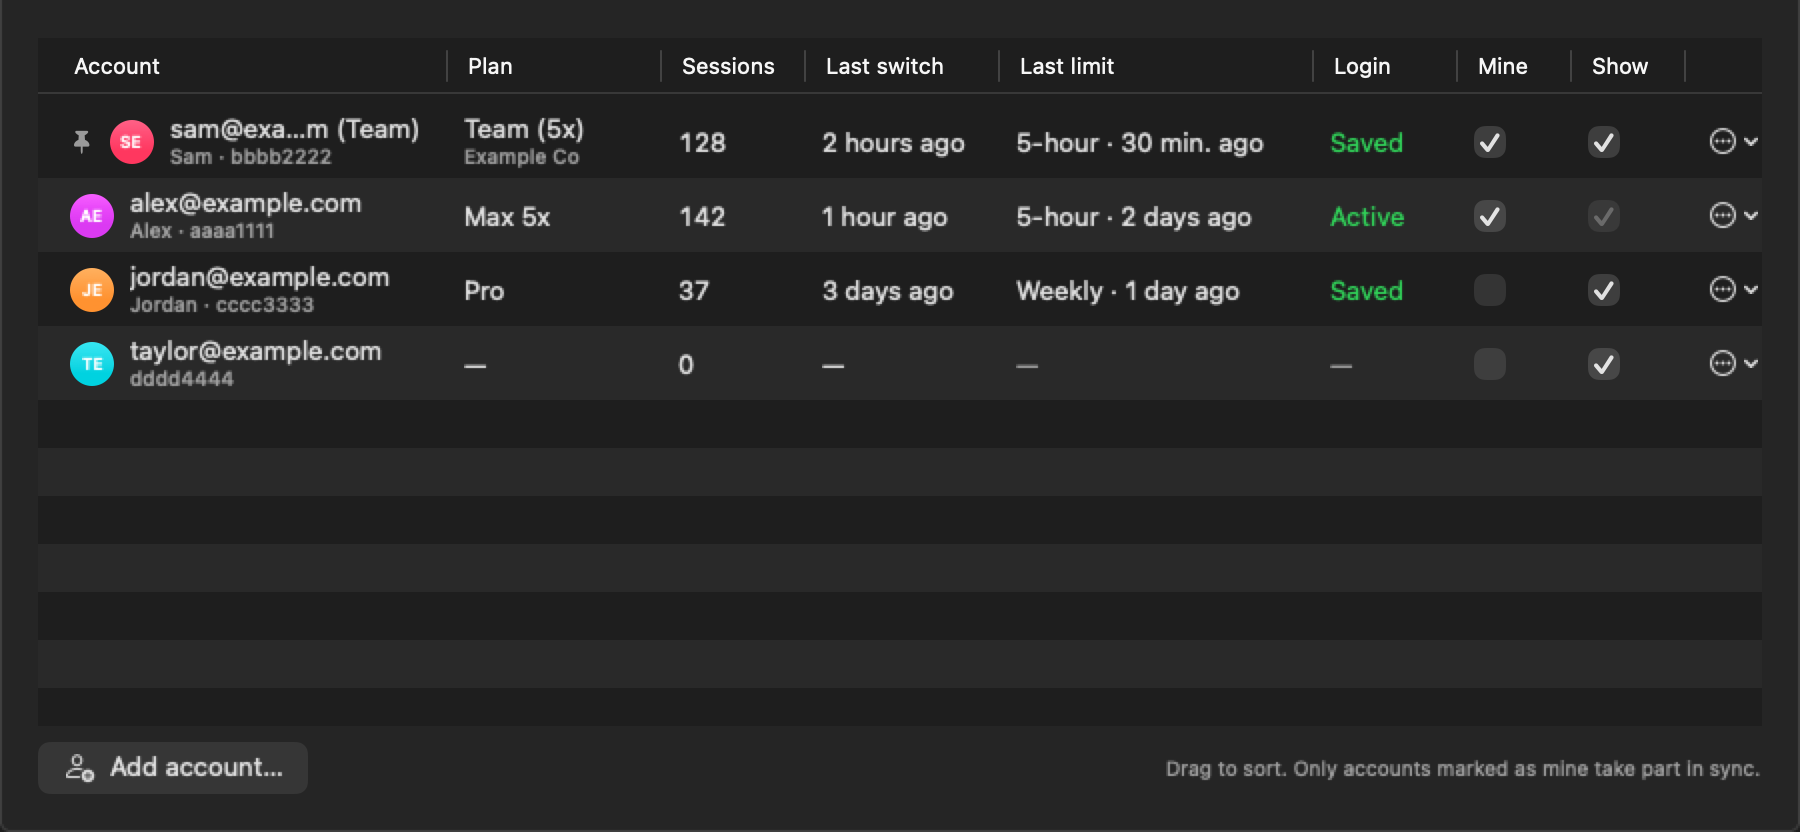
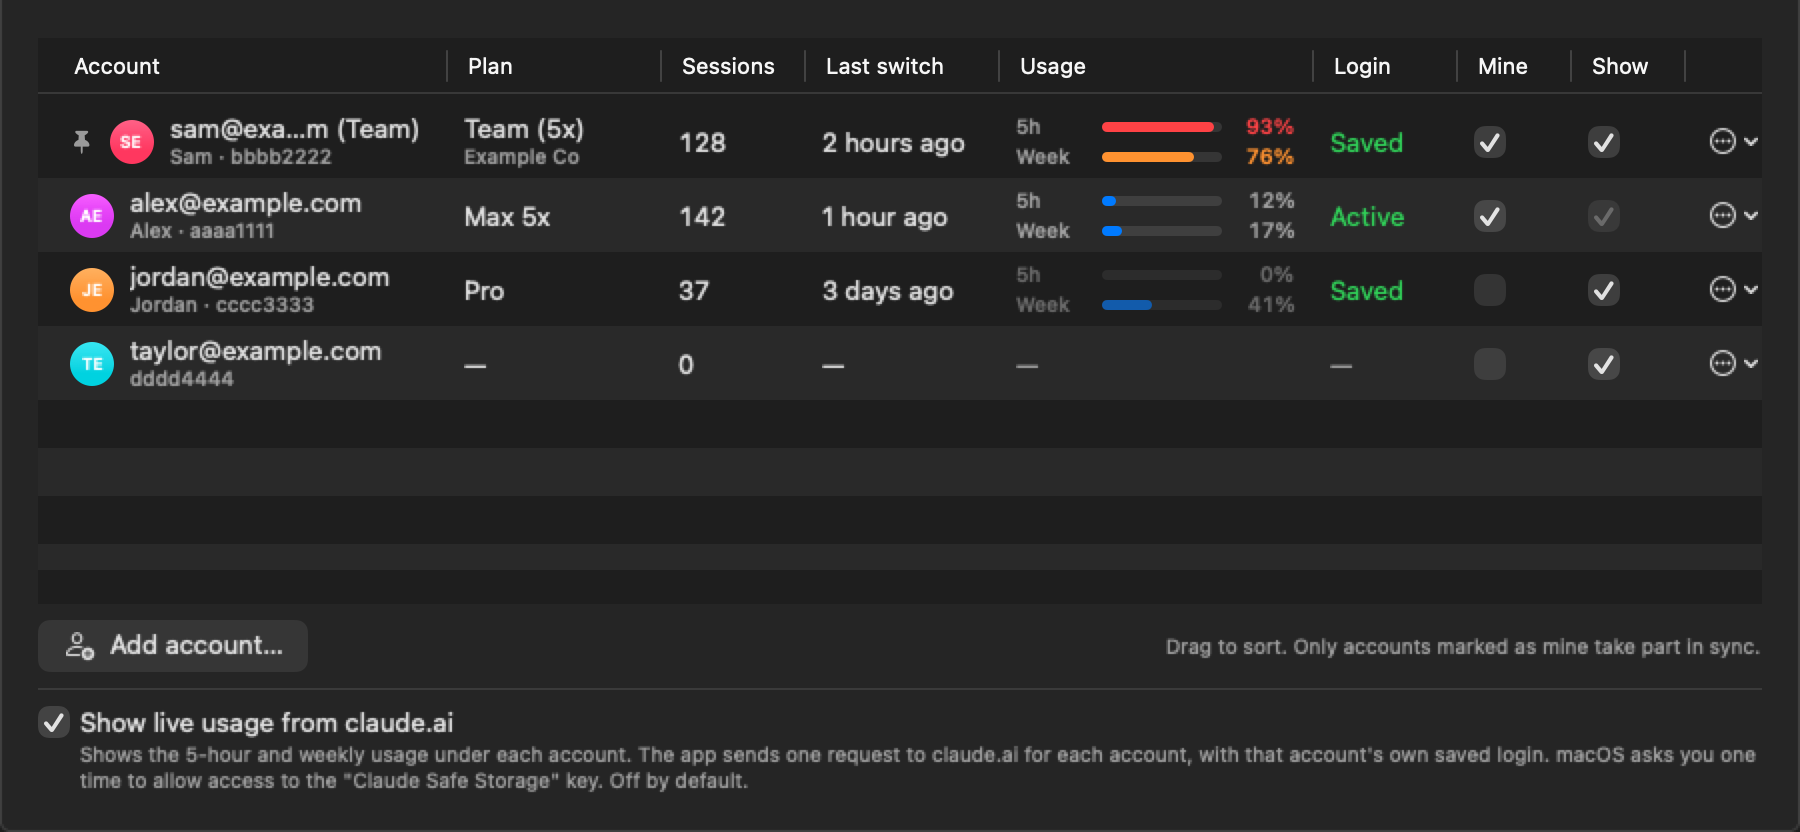
Live usage: README, screenshots, and debug report
- README: "New in 1.3" (live usage, the 90% warning, the cleaner
  panel) and a Live usage section: what is sent to claude.ai, the
  Keychain dialog (never "Always Allow" for /usr/bin/security), what is
  kept, and the risk that claude.ai can change the request. The Limits
  item no longer says usage percents are not shown.
- Screenshots of the panel and Settings > Accounts with live usage on,
  light and dark: high bars with reset times, a Fable bar, an old value
  after a failed read. The screenshot script defaults to 1.3.0.
- Debug report: the app passes each account's live usage state with
  --live-usage <account>=<state> (ok or an error type only; the engine
  refuses anything else) and the warning setting. IDs stay redacted.

Part of #29. Closes #50.

diff --git a/Sources/ClaudeAccountsCore/Logic.swift b/Sources/ClaudeAccountsCore/Logic.swift
@@ -131,8 +131,11 @@ public extension Status {
 
     /// Engine arguments for the debug report. The app adds the settings only it knows
     /// (the keyboard shortcuts), as on/off.
-    static func reportArguments(appSettings: [(String, Bool)]) -> [String] {
+    /// `liveUsage` adds each account's live usage state: "ok", or the newest error type. Never a
+    /// percent or a cookie: the report is for a GitHub issue.
+    static func reportArguments(appSettings: [(String, Bool)], liveUsage: [String: CachedUsage] = [:]) -> [String] {
         ["report"] + appSettings.flatMap { ["--app-setting", "\($0.0)=\($0.1 ? "on" : "off")"] }
+            + liveUsage.sorted { $0.key < $1.key }.flatMap { ["--live-usage", "\($0.key)=\($0.value.error ?? "ok")"] }
     }
 
     /// Lines for the sync preview, for example "jomon@example.com: 16 sessions". Accounts with 0 changes are left out.

diff --git a/tests/CoreTests/main.swift b/tests/CoreTests/main.swift
@@ -245,6 +245,10 @@ func main() async {
     check("report arguments carry the shortcut states",
           Status.reportArguments(appSettings: [("shortcutOpenPanel", true), ("shortcutNextAccount", false)])
           == ["report", "--app-setting", "shortcutOpenPanel=on", "--app-setting", "shortcutNextAccount=off"])
+    check("report arguments carry live usage states, never limits or cookies",
+          Status.reportArguments(appSettings: [], liveUsage: [B: CachedUsage(limits: [], readAt: 0, error: "http-403"),
+                                                                 A: CachedUsage(limits: [LiveLimit(kind: "session", percent: 5, resetsAt: nil, label: nil)], readAt: 1, error: nil)])
+          == ["report", "--live-usage", "\(A)=ok", "--live-usage", "\(B)=http-403"])
 
     print("Account")
     let b = s.account(B)!

diff --git a/Sources/ClaudeAccounts/Store.swift b/Sources/ClaudeAccounts/Store.swift
@@ -526,7 +526,9 @@ final class Store: ObservableObject {
     /// Copies the engine's debug report (no emails, no account IDs) to the clipboard.
     /// Returns a short message for the user.
     func copyDebugReport() async -> String {
-        let r = await run(Status.reportArguments(appSettings: HotKeys.Key.allCases.map { ($0.setting, $0.isOn) }))
+        let r = await run(Status.reportArguments(
+            appSettings: HotKeys.Key.allCases.map { ($0.setting, $0.isOn) } + [(Self.usageWarningKey, usageWarningOn)],
+            liveUsage: liveCache))
         guard r.ok, !r.output.isEmpty else { return "Cannot make the report: \(r.output)" }
         NSPasteboard.general.clearContents()
         NSPasteboard.general.setString(r.output, forType: .string)

diff --git a/README.md b/README.md
@@ -7,7 +7,7 @@ A macOS menu bar app that switches the **Claude desktop app** between your accou
 <p>
   <picture>
     <source media="(prefers-color-scheme: dark)" srcset="docs/screenshots/panel-dark.png">
-    <img src="docs/screenshots/panel-light.png" width="380" alt="The menu bar panel with four demo accounts and one session stopped on the usage limit">
+    <img src="docs/screenshots/panel-light.png" width="380" alt="The menu bar panel with four demo accounts: live usage bars for the 5-hour and weekly limits, a Fable bar, an old value after a failed read, and one session stopped on the usage limit">
   </picture>
   <picture>
     <source media="(prefers-color-scheme: dark)" srcset="docs/screenshots/sync-preview-dark.png">
@@ -17,7 +17,7 @@ A macOS menu bar app that switches the **Claude desktop app** between your accou
 
 <picture>
   <source media="(prefers-color-scheme: dark)" srcset="docs/screenshots/settings-accounts-dark.png">
-  <img src="docs/screenshots/settings-accounts-light.png" width="700" alt="Settings, Accounts tab: one table with sessions, login, Mine and Show for each account">
+  <img src="docs/screenshots/settings-accounts-light.png" width="700" alt="Settings, Accounts tab: one table with plan, sessions, last switch, live usage bars, login, Mine and Show for each account">
 </picture>
 
 The screenshots use demo data. `scripts/screenshots.sh` makes them again.
@@ -56,7 +56,13 @@ New in 1.2:
 - **Debug report** lists the plan and the last limit window of each account. Display names and organization names are not in it.
 - **Stopped on usage limit** now names the account that hit the limit, also for a session that sync copied to several accounts.
 
-All of this comes from files on your Mac. The app sends nothing to claude.ai.
+All of this comes from files on your Mac.
+
+New in 1.3:
+
+- **Live usage (off by default).** Turn it on with the **Usage** button in the panel, or in Settings → Accounts. Each account then shows a bar for each limit on its claude.ai Usage page: 5-hour, weekly, and model limits such as Fable. A bar turns orange at 70% and red at 90%, and then shows when the limit resets. See [Live usage](#live-usage).
+- **Warning at 90%.** When the active account reaches 90% of its 5-hour limit, a notification names your account with the most free capacity, with a Switch button. Once for each 5-hour window. Turn it off in Settings → General.
+- **Cleaner panel.** The active account is tinted, a key marks a saved login, and opening Settings closes the panel.
 
 <picture>
   <source media="(prefers-color-scheme: dark)" srcset="docs/screenshots/welcome-dark.png">
@@ -142,6 +148,15 @@ claude-switch sync --dry-run
 
 Run `claude-switch help` to see all commands.
 
+## Live usage
+
+Live usage is **off** until you turn it on. When it is on:
+
+- **What is sent:** one request to claude.ai for each account with a saved login (`GET /api/organizations/<org>/usage`), with that account's own cookies. Nothing else, and to nowhere else. It reads every 10 minutes, and when you open the panel if the last read is 2 minutes old or more.
+- **The Keychain dialog:** the saved cookies are encrypted with the "Claude Safe Storage" key, the same key the Claude app uses. macOS asks you one time to allow Claude Accounts to use it. The app is not notarized, so macOS can ask again after an update. Never allow `/usr/bin/security` with "Always Allow": that would let any program read the key.
+- **What is kept:** the key stays in memory until the app quits. The engine decrypts a copy of each cookie file and gives the cookies only to the app, through a pipe. They are never written to disk. The app keeps the last good usage (percents, reset times, the read time) in its preferences, so a failed read still shows the last value with its age.
+- **The risk:** the usage request is not a public interface. claude.ai can change it at any time. Then the panel shows "Usage unavailable" until the app is updated. The test and the design are in [docs/usage-live.md](docs/usage-live.md).
+
 ## Safety design
 
 The app changes files that the Claude desktop app owns. It is careful with them:
@@ -167,7 +182,7 @@ The Claude desktop app keeps its login under `~/Library/Application Support/Clau
 - If a saved login expires, the app tells you. Sign in again, and the app saves the new login.
 - Sync only between your own accounts. Do not mark an account that another person uses as "mine".
 - The app depends on how the Claude desktop app stores its files. If an update changes that, the layout check stops the switch.
-- The app shows when an account hit a usage limit and when that limit resets. It does not show usage percents: Claude keeps no local record of them ([#30](https://github.com/jomonkj/claude-accounts/issues/30)).
+- Usage percents come only from claude.ai (live usage). Claude keeps no local record of them ([#30](https://github.com/jomonkj/claude-accounts/issues/30)). With live usage off, the app shows only when an account hit a limit and when it resets.
 - A limit hit belongs to the account that `switch.log` shows as active at that time. Before the first logged switch, it belongs to the account folder with the newest copy of the session.
 
 ## Build from source
